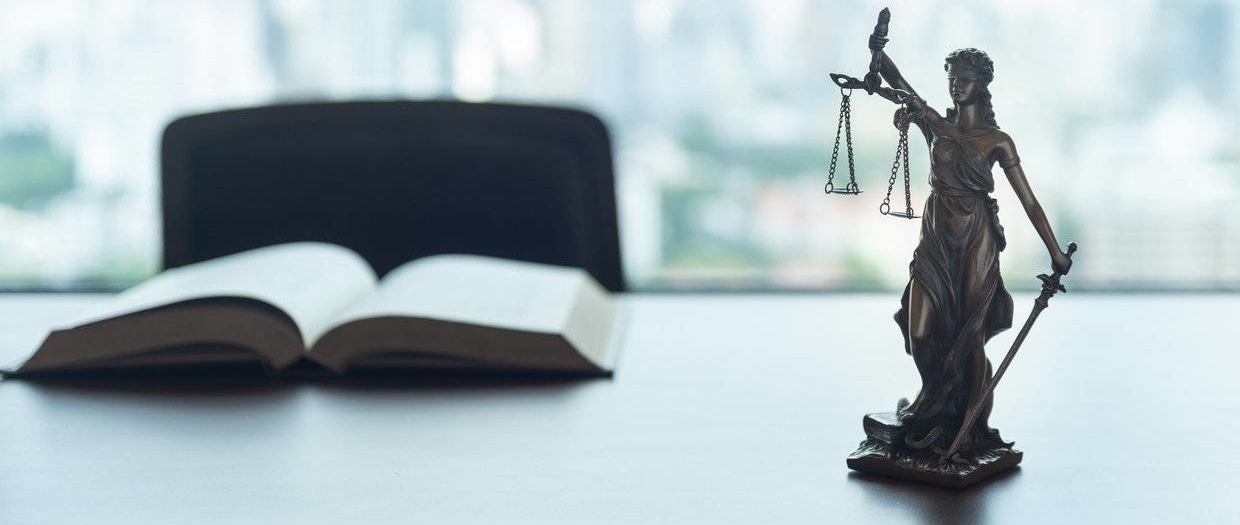
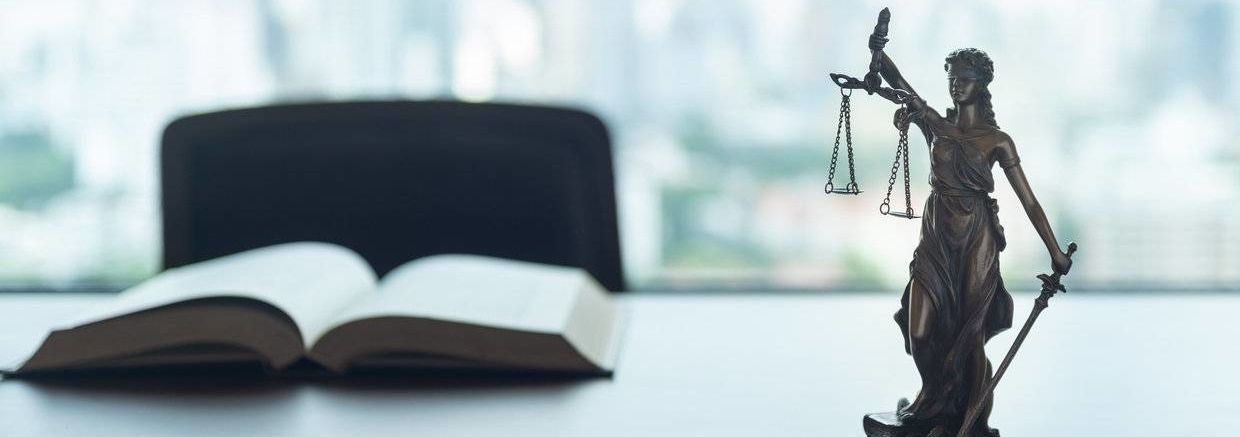
templates fix

diff --git a/templates/index.html b/templates/index.html
@@ -3,16 +3,14 @@
 {% load static %}
 
 {% block content %}
-<div class="hero-wrap filtered" style="background-image: url({% static 'core/images/bg_1.jpg' %}); max-width:1700px; " data-stellar-background-ratio="0.5">
+<div class="hero-wrap filtered" style="background-image: url({% static 'core/images/bg_1.jpg' %});" data-stellar-background-ratio="0.5">
   <div class="overlay"></div>
   <div class="container">
-    <div class="pt-4">
-      <img src="{% static 'core/images/index-python.png' %}" width='200'>
-    </div>
     <div class="row no-gutters slider-text align-items-center">
       <div class="col-md-6 ic-animate d-flex align-items-end">
         <div class="text w-100">
-          <h1 class="mb-4">Python Web Development and Data Analysis</h1>
+          <img class="mb-4" src="{% static 'core/images/index-python.png' %}">
+          <h1 class="mb-4 i-font">Python Web Development and Data Analysis</h1>
           <p class="mb-4">Sortiment služieb vo vysokoúrovňovom, dynamickom programovacom jazyku Python.</p>
           <p><a href="{% url 'kontakt' %}#mapa" class="btn btn-primary py-3 px-4 lol">Kontakt</a> <a id="index-more" class="btn btn-white py-3 px-4">Zistiť viac</a></p>
         </div>

diff --git a/core/static/core/css/style.css b/core/static/core/css/style.css
@@ -8735,7 +8735,7 @@ h1, h2, h3, h4, h5,
       height: 400px !important; }
 
 .slider-text {
-  height: 440px;
+  height: 700px;
   position: relative; }
   .slider-text h1 {
     font-size: 60px;
@@ -9709,8 +9709,11 @@ textarea.form-control {
   .testimony-section .owl-carousel {
     margin: 0; }
   .testimony-section .owl-carousel .owl-stage-outer {
-    margin-top: 80px;
+    padding: 80px 0 2em;
     position: relative; }
+  @media (max-width: 481.98px) {
+    .testimony-section .owl-carousel .owl-stage-outer {
+      padding: 15px 0 2em; } }
   .testimony-section .owl-nav {
     position: absolute;
     top: 100%;
@@ -9816,7 +9819,7 @@ textarea.form-control {
   .testimony-wrap .name {
     font-size: 40px; }
   .testimony-wrap .user-img {
-    margin-left: 15%; } }
+    margin-left: 10%; } }
     
 @media (max-width: 766.98px) {
   .about-image {
@@ -11002,3 +11005,7 @@ textarea.form-control {
     margin-right: 0 !important;
     float: left !important; }
 }
+
+@media (max-width: 575.98px) {
+  .i-font {
+    font-size: 40px !important; } }

diff --git a/templates/about-me.html b/templates/about-me.html
@@ -47,7 +47,7 @@
       <div class="col-md-18 col-lg-4 justify-content-center counter-wrap ic-animate">
         <div class="block-18 py-4 mb-4">
           <div class="text align-items-center">
-            <span>„Úspešný človek profituje zo svojich chýb a skúša to znova a inak.“ – Dale Cargenie</span>
+            <span>„Úspešný človek profituje zo svojich chýb a skúša to znova a inak.“ - Dale Cargenie</span>
           </div>
         </div>
       </div>
